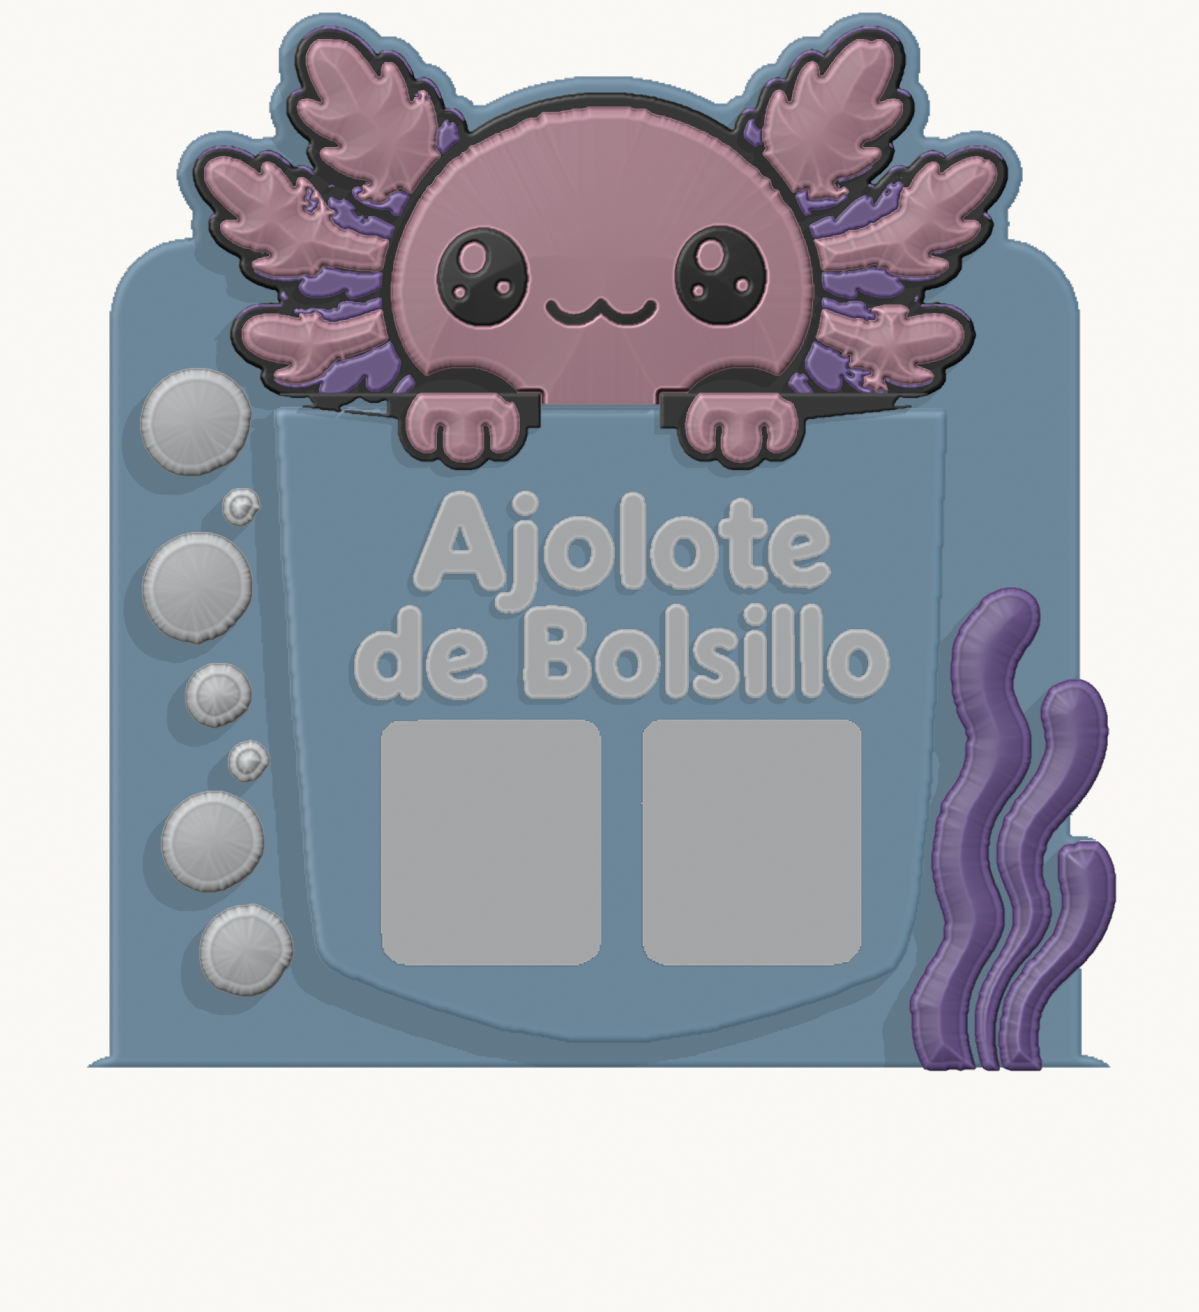
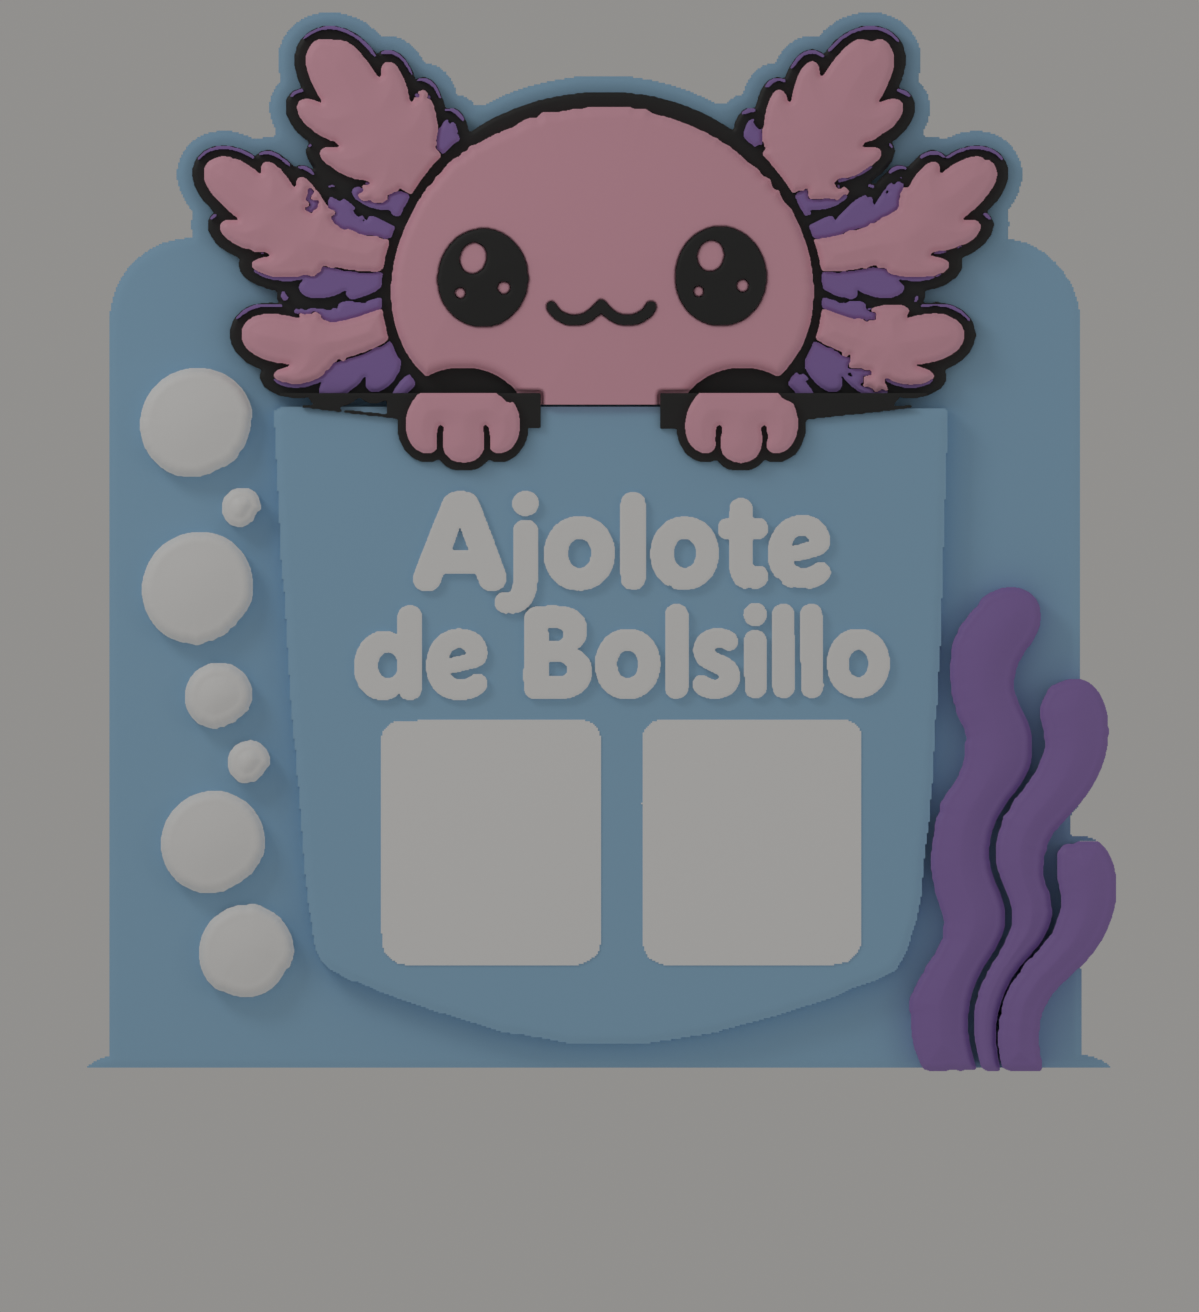
Fase 2: contorno de manitas, flecos suavizados e iluminación de render
Claude-Session: https://claude.ai/code/session_01DjXS1vdsV2FGNgab6PkVct

diff --git a/totems/blender/fase2_personaje.py b/totems/blender/fase2_personaje.py
@@ -152,7 +152,8 @@ paws_c = [c for c in rosas if c["cy"] > 390 and c is not head_c]
 lobes_c = [c for c in rosas if c is not head_c and all(c is not p for p in paws_c)]
 head = rej.de_ref(head_c["mask"])
 lobes = [rej.de_ref(c["mask"]) for c in lobes_c]
-fringes = rej.de_ref(m_mor)  # todos los flecos
+m_mor_s = cv2.morphologyEx(cv2.morphologyEx(m_mor.astype(np.uint8), cv2.MORPH_CLOSE, np.ones((5, 5), np.uint8)), cv2.MORPH_OPEN, np.ones((3, 3), np.uint8)) > 0
+fringes = rej.de_ref(m_mor_s, 1.6)  # todos los flecos, contorno suavizado
 # ojos y boca: negro dentro de la cabeza (rellenando huecos de la cabeza)
 def rellenar(m):
     m = m.astype(np.uint8).copy(); ff = m.copy(); msk = np.zeros((m.shape[0] + 2, m.shape[1] + 2), np.uint8)
@@ -173,7 +174,7 @@ cara = head_full  # cabeza completa (incluye ojos y boca) para el domo
 
 axo = rej.de_ref(m_axo)
 backer = axo & ~pocket_gap
-paws_back = [rej.de_ref(c["mask"]) for c in R.componentes(m_man, 500)]
+paws_back = [rej.offset(rej.de_ref(c["mask"]), 0.9) for c in sorted([c for c in R.componentes(m_rosa) if c["cy"] > 390], key=lambda c: c["cx"])]
 paws_pink = [rej.de_ref(c["mask"]) for c in paws_c]
 paws_all = np.any(paws_back, axis=0) if paws_back else np.zeros_like(axo)
 bajo_manitas = rej.offset(paws_all, 0.5)

diff --git a/totems/blender/render_comparar.py b/totems/blender/render_comparar.py
@@ -86,11 +86,11 @@ def usar_cycles():
     scene.cycles.device = "CPU"; scene.cycles.samples = 48; scene.cycles.use_denoising = True
     scene.cycles.max_bounces = 4
     w = scene.world; w.use_nodes = True
-    bg = w.node_tree.nodes.get("Background"); bg.inputs[0].default_value = (0.95, 0.93, 0.90, 1); bg.inputs[1].default_value = 0.55
-    for nombre, loc, en in (("llave", (-250, -400, 450), 120000), ("relleno", (350, -300, 150), 45000), ("contra", (0, 300, 400), 40000)):
+    bg = w.node_tree.nodes.get("Background"); bg.inputs[0].default_value = (0.95, 0.93, 0.90, 1); bg.inputs[1].default_value = 0.30
+    for nombre, loc, en in (("llave", (-320, -260, 420), 260000), ("relleno", (380, -380, 120), 50000), ("contra", (60, 320, 380), 60000)):
         if bpy.data.objects.get(nombre):
             continue
-        ld = bpy.data.lights.new(nombre, "AREA"); ld.energy = en; ld.size = 300
+        ld = bpy.data.lights.new(nombre, "AREA"); ld.energy = en; ld.size = 160
         lo = bpy.data.objects.new(nombre, ld); lo.location = loc; scene.collection.objects.link(lo)
         c = lo.constraints.new("TRACK_TO"); t = bpy.data.objects.get("objetivo") or bpy.data.objects.new("objetivo", None)
         if t.name not in scene.collection.objects:
